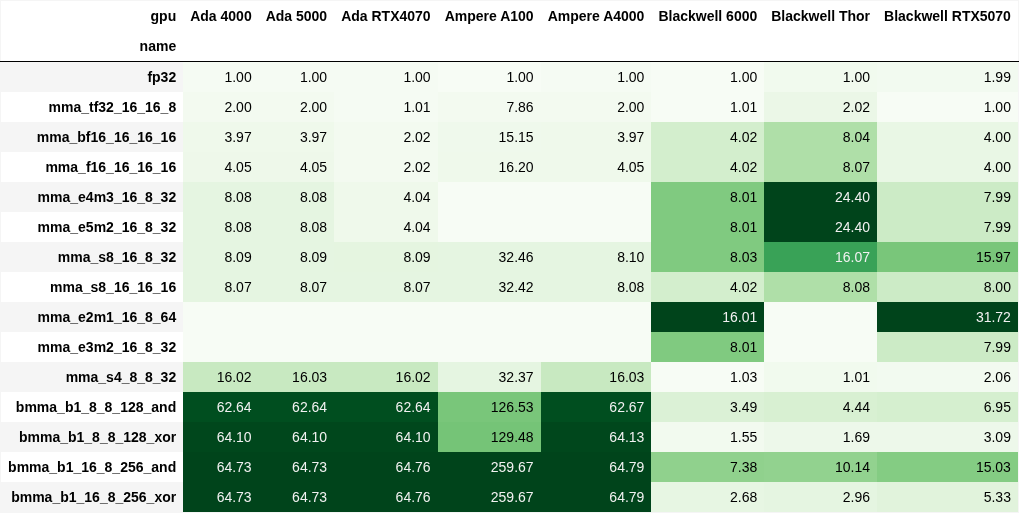
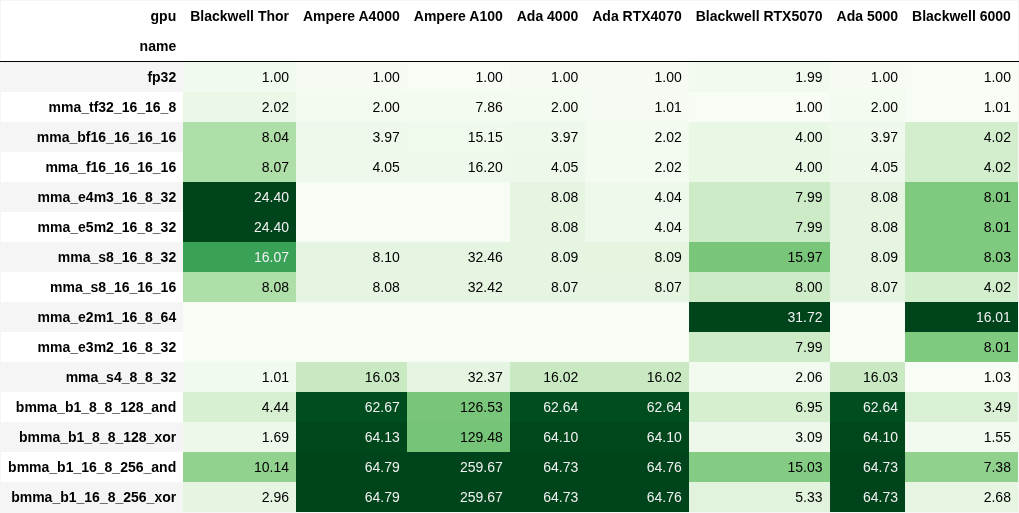
Fix column order in table with normalized performance

diff --git a/generate_report.py b/generate_report.py
@@ -110,7 +110,10 @@ def compute_metrics(df: pd.DataFrame) -> pd.DataFrame:
 
 
 def create_styled_table(
-    df: pd.DataFrame, value_col: str, row_order: List[str]
+    df: pd.DataFrame,
+    value_col: str,
+    row_order: List[str],
+    column_order: Optional[List[str]] = None,
 ) -> pd.DataFrame:
     """Create a styled table with consistent formatting."""
     # Create pivot table
@@ -121,7 +124,8 @@ def create_styled_table(
     )
 
     # Sort columns by first row values
-    column_order = table.iloc[0].sort_values(ascending=True).index
+    if column_order is None:
+        column_order = table.iloc[0].sort_values(ascending=True).index
     table = table[column_order]
 
     # Style function for hiding zeros
@@ -133,7 +137,7 @@ def create_styled_table(
         table.style.background_gradient(cmap="Greens").format("{:.2f}").map(hide_nan)
     )
 
-    return table, styled
+    return table, styled, column_order
 
 
 def generate_report(table_absolute, table_normalized) -> str:
@@ -193,11 +197,11 @@ def main():
     df = compute_metrics(df)
 
     # Create styled tables
-    table_absolute, table_absolute_styled = create_styled_table(
+    table_absolute, table_absolute_styled, column_order = create_styled_table(
         df, "max_tops", ROW_ORDER
     )
-    table_normalized, table_normalized_styled = create_styled_table(
-        df, "normalized_ops", ROW_ORDER
+    table_normalized, table_normalized_styled, _ = create_styled_table(
+        df, "normalized_ops", ROW_ORDER, column_order
     )
 
     # Export styled tables as images

diff --git a/README.md b/README.md
@@ -218,14 +218,14 @@ Scaled relative to each GPU's slowest individual benchmark result, revealing how
   <thead>
     <tr style="text-align: right;">
       <th>gpu</th>
-      <th>Ada 4000</th>
-      <th>Ada 5000</th>
-      <th>Ada RTX4070</th>
-      <th>Ampere A100</th>
-      <th>Ampere A4000</th>
-      <th>Blackwell 6000</th>
       <th>Blackwell Thor</th>
+      <th>Ampere A4000</th>
+      <th>Ampere A100</th>
+      <th>Ada 4000</th>
+      <th>Ada RTX4070</th>
       <th>Blackwell RTX5070</th>
+      <th>Ada 5000</th>
+      <th>Blackwell 6000</th>
     </tr>
     <tr>
       <th>name</th>
@@ -247,86 +247,86 @@ Scaled relative to each GPU's slowest individual benchmark result, revealing how
       <td>1.000000</td>
       <td>1.000000</td>
       <td>1.000000</td>
-      <td>1.000000</td>
-      <td>1.000000</td>
       <td>1.994289</td>
+      <td>1.000000</td>
+      <td>1.000000</td>
     </tr>
     <tr>
       <th>mma_tf32_16_16_8</th>
-      <td>2.001164</td>
-      <td>2.001280</td>
-      <td>1.011007</td>
-      <td>7.862407</td>
-      <td>2.002222</td>
-      <td>1.005101</td>
       <td>2.020475</td>
+      <td>2.002222</td>
+      <td>7.862407</td>
+      <td>2.001164</td>
+      <td>1.011007</td>
       <td>1.000000</td>
+      <td>2.001280</td>
+      <td>1.005101</td>
     </tr>
     <tr>
       <th>mma_bf16_16_16_16</th>
-      <td>3.970607</td>
-      <td>3.970672</td>
-      <td>2.019624</td>
-      <td>15.149638</td>
-      <td>3.972996</td>
-      <td>4.016970</td>
       <td>8.036838</td>
+      <td>3.972996</td>
+      <td>15.149638</td>
+      <td>3.970607</td>
+      <td>2.019624</td>
       <td>3.999249</td>
+      <td>3.970672</td>
+      <td>4.016970</td>
     </tr>
     <tr>
       <th>mma_f16_16_16_16</th>
-      <td>4.046058</td>
-      <td>4.046149</td>
-      <td>2.023599</td>
-      <td>16.200580</td>
-      <td>4.047093</td>
-      <td>4.017391</td>
       <td>8.069149</td>
+      <td>4.047093</td>
+      <td>16.200580</td>
+      <td>4.046058</td>
+      <td>2.023599</td>
       <td>3.999123</td>
+      <td>4.046149</td>
+      <td>4.017391</td>
     </tr>
     <tr>
       <th>mma_e4m3_16_8_32</th>
-      <td>8.083276</td>
-      <td>8.083398</td>
-      <td>4.043845</td>
-      <td>0.000000</td>
-      <td>0.000000</td>
-      <td>8.010940</td>
       <td>24.402753</td>
+      <td>0.000000</td>
+      <td>0.000000</td>
+      <td>8.083276</td>
+      <td>4.043845</td>
       <td>7.994374</td>
+      <td>8.083398</td>
+      <td>8.010940</td>
     </tr>
     <tr>
       <th>mma_e5m2_16_8_32</th>
-      <td>8.083276</td>
-      <td>8.083398</td>
-      <td>4.043841</td>
-      <td>0.000000</td>
-      <td>0.000000</td>
-      <td>8.010875</td>
       <td>24.402041</td>
+      <td>0.000000</td>
+      <td>0.000000</td>
+      <td>8.083276</td>
+      <td>4.043841</td>
       <td>7.994304</td>
+      <td>8.083398</td>
+      <td>8.010875</td>
     </tr>
     <tr>
       <th>mma_s8_16_8_32</th>
-      <td>8.090798</td>
-      <td>8.090928</td>
-      <td>8.094889</td>
-      <td>32.458192</td>
-      <td>8.098749</td>
-      <td>8.025319</td>
       <td>16.069432</td>
+      <td>8.098749</td>
+      <td>32.458192</td>
+      <td>8.090798</td>
+      <td>8.094889</td>
       <td>15.967701</td>
+      <td>8.090928</td>
+      <td>8.025319</td>
     </tr>
     <tr>
       <th>mma_s8_16_16_16</th>
-      <td>8.072459</td>
-      <td>8.072581</td>
-      <td>8.072373</td>
-      <td>32.422040</td>
-      <td>8.076416</td>
-      <td>4.019809</td>
       <td>8.084863</td>
+      <td>8.076416</td>
+      <td>32.422040</td>
+      <td>8.072459</td>
+      <td>8.072373</td>
       <td>7.998443</td>
+      <td>8.072581</td>
+      <td>4.019809</td>
     </tr>
     <tr>
       <th>mma_e2m1_16_8_64</th>
@@ -335,9 +335,9 @@ Scaled relative to each GPU's slowest individual benchmark result, revealing how
       <td>0.000000</td>
       <td>0.000000</td>
       <td>0.000000</td>
-      <td>16.006161</td>
-      <td>0.000000</td>
       <td>31.724941</td>
+      <td>0.000000</td>
+      <td>16.006161</td>
     </tr>
     <tr>
       <th>mma_e3m2_16_8_32</th>
@@ -346,67 +346,67 @@ Scaled relative to each GPU's slowest individual benchmark result, revealing how
       <td>0.000000</td>
       <td>0.000000</td>
       <td>0.000000</td>
-      <td>8.011019</td>
-      <td>0.000000</td>
       <td>7.994444</td>
+      <td>0.000000</td>
+      <td>8.011019</td>
     </tr>
     <tr>
       <th>mma_s4_8_8_32</th>
-      <td>16.024775</td>
-      <td>16.025049</td>
-      <td>16.024781</td>
-      <td>32.369937</td>
-      <td>16.032823</td>
-      <td>1.030102</td>
       <td>1.006988</td>
+      <td>16.032823</td>
+      <td>32.369937</td>
+      <td>16.024775</td>
+      <td>16.024781</td>
       <td>2.055639</td>
+      <td>16.025049</td>
+      <td>1.030102</td>
     </tr>
     <tr>
       <th>bmma_b1_8_8_128_and</th>
-      <td>62.637411</td>
-      <td>62.637690</td>
-      <td>62.637254</td>
-      <td>126.529725</td>
-      <td>62.666393</td>
-      <td>3.493679</td>
       <td>4.439794</td>
+      <td>62.666393</td>
+      <td>126.529725</td>
+      <td>62.637411</td>
+      <td>62.637254</td>
       <td>6.952653</td>
+      <td>62.637690</td>
+      <td>3.493679</td>
     </tr>
     <tr>
       <th>bmma_b1_8_8_128_xor</th>
-      <td>64.099650</td>
+      <td>1.694844</td>
+      <td>64.131179</td>
+      <td>129.480909</td>
       <td>64.099650</td>
       <td>64.099213</td>
-      <td>129.480909</td>
-      <td>64.131179</td>
-      <td>1.553761</td>
-      <td>1.694844</td>
       <td>3.090723</td>
+      <td>64.099650</td>
+      <td>1.553761</td>
     </tr>
     <tr>
       <th>bmma_b1_16_8_256_and</th>
-      <td>64.726716</td>
-      <td>64.727427</td>
-      <td>64.758571</td>
-      <td>259.666506</td>
-      <td>64.790305</td>
-      <td>7.376406</td>
       <td>10.142821</td>
+      <td>64.790305</td>
+      <td>259.666506</td>
+      <td>64.726716</td>
+      <td>64.758571</td>
       <td>15.027921</td>
+      <td>64.727427</td>
+      <td>7.376406</td>
     </tr>
     <tr>
       <th>bmma_b1_16_8_256_xor</th>
-      <td>64.726716</td>
-      <td>64.727769</td>
-      <td>64.758571</td>
-      <td>259.665539</td>
-      <td>64.790305</td>
-      <td>2.676377</td>
       <td>2.961496</td>
+      <td>64.790305</td>
+      <td>259.665539</td>
+      <td>64.726716</td>
+      <td>64.758571</td>
       <td>5.328572</td>
+      <td>64.727769</td>
+      <td>2.676377</td>
     </tr>
   </tbody>
 </table>
 </details>
 
-*Report generated on 2025-11-06 15:26 UTC*
+*Report generated on 2025-11-06 15:29 UTC*
